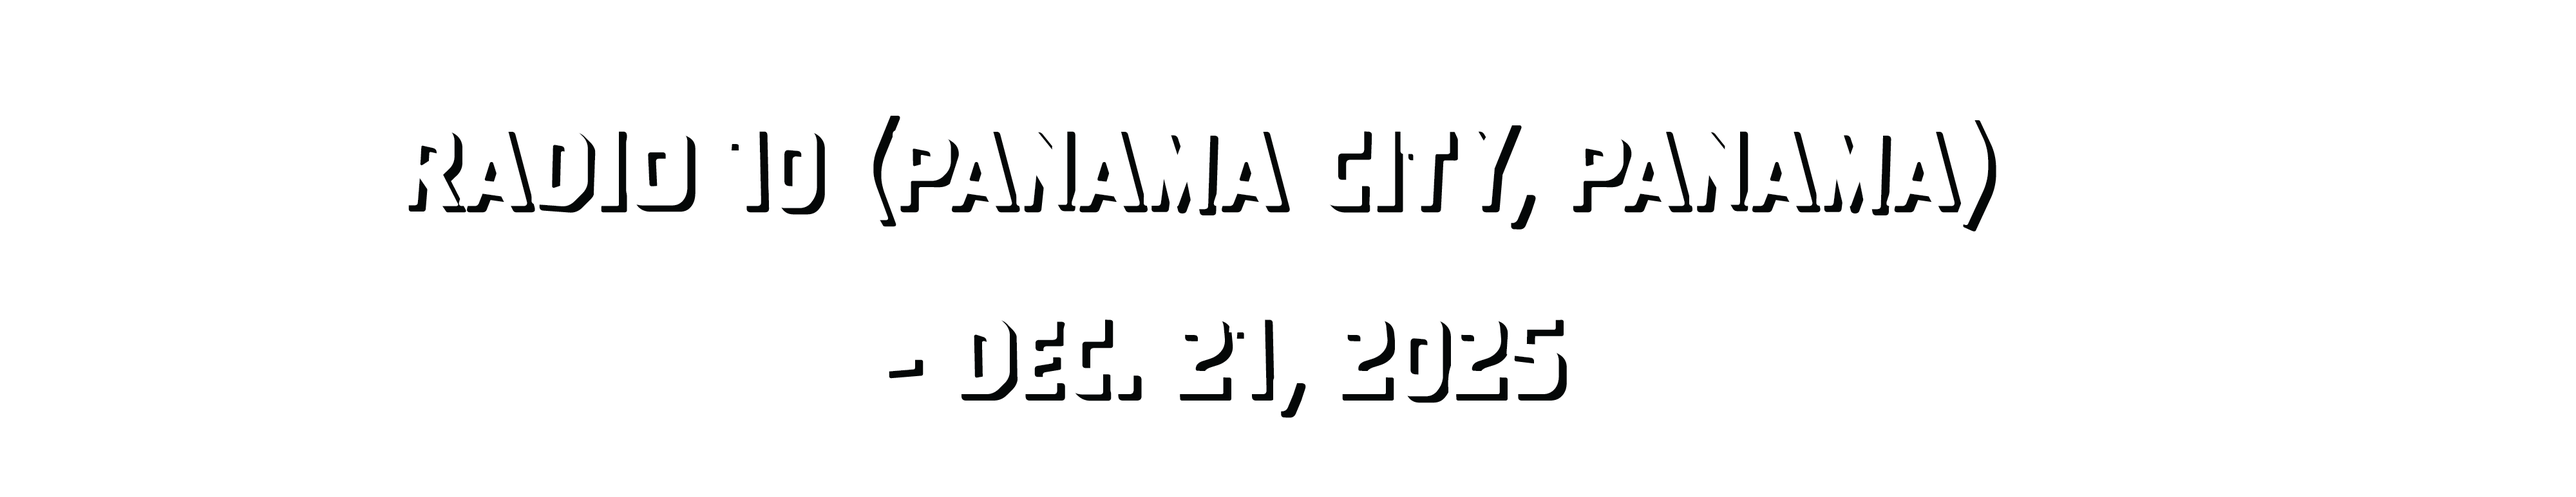
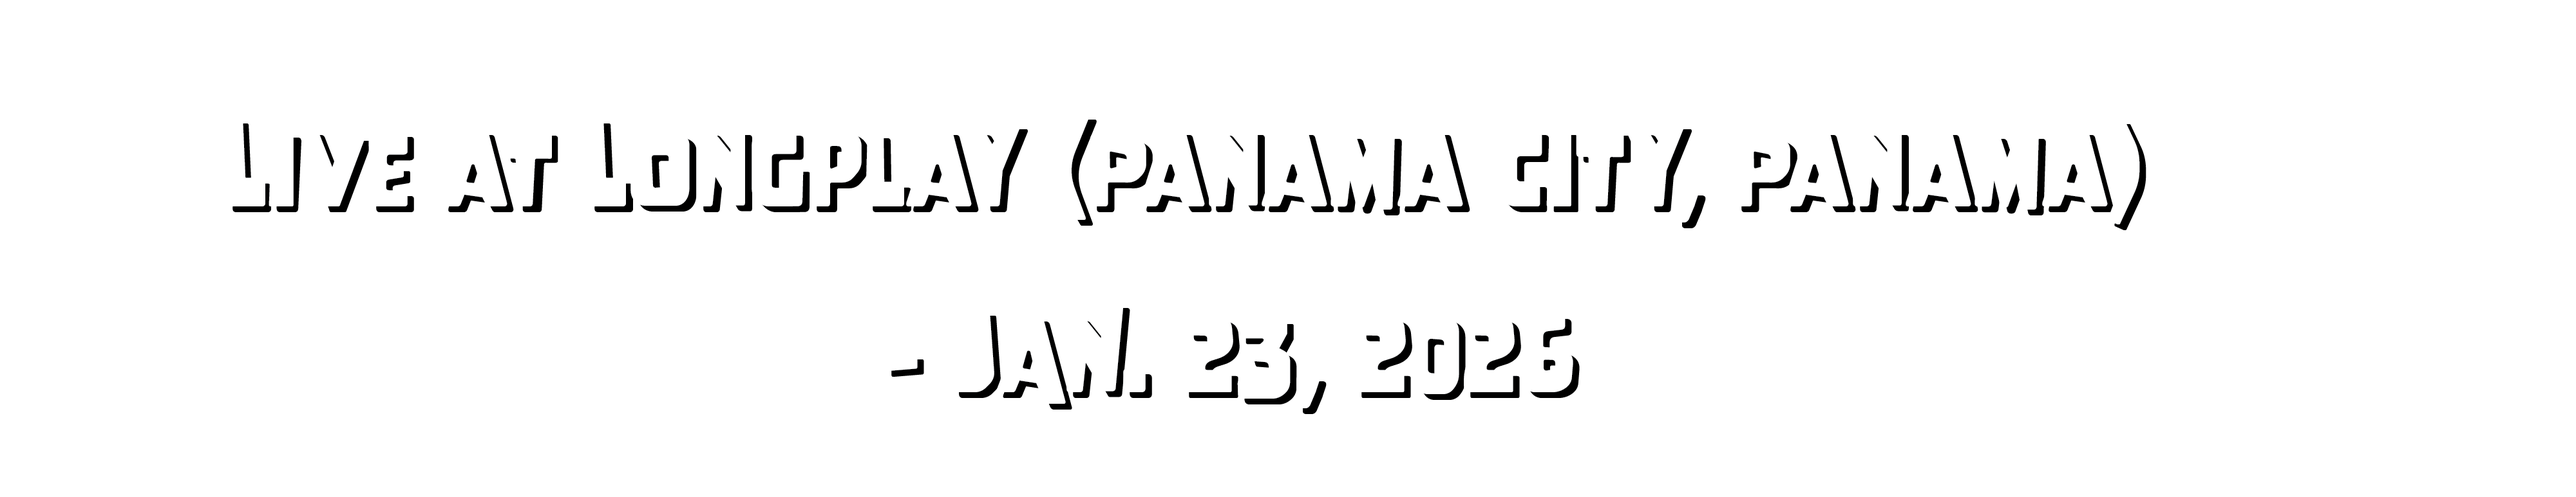
update

Changed region(s): [[0.0938, 0.2484, 0.8438, 0.4657], [0.375, 0.621, 0.625, 0.8383]]

diff --git a/src/components/Tabs.js b/src/components/Tabs.js
@@ -1,45 +1,90 @@
-import { useState } from 'react';
+import { useState, useEffect } from 'react';
 import { useNavigate, useLocation } from 'react-router-dom';
 
 export default function PortfolioTabs() {
-   const navigate = useNavigate();
+  const navigate = useNavigate();
   const location = useLocation();
   const [hoveredTab, setHoveredTab] = useState(null);
+  const [activeTab, setActiveTab] = useState('longplay');
 
   const tabs = [
     { id: 'music', label: 'MUSIC', path: '/music' },
     { id: 'tour', label: 'TOUR DATES', path: '/tour' },
     { id: 'prints', label: 'PRINTS', path: '/prints' },
-    { id: 'merch', label: 'MERCH', path: '/merch' }
+    { id: 'merch', label: 'MERCH', path: '/merch' }, 
   ];
 
- const handleTabClick = (path) => {
+  const tabs2 = [
+    { id: 'longplay', label: 'LIVE AT LONGPLAY', path: '/longplay' }
+  ];
+
+  // Sync active tab with current URL
+  useEffect(() => {
+    const allTabs = [...tabs, ...tabs2];
+    const currentTab = allTabs.find(tab => tab.path === location.pathname);
+    if (currentTab) {
+      setActiveTab(currentTab.id);
+    }
+  }, [location.pathname]);
+
+  const handleTabClick = (tabId, path) => {
+    setActiveTab(tabId);
     navigate(path);
   };
 
-  // Derive active tab from current URL
-  const activeTab = tabs.find(tab => tab.path === location.pathname)?.id || 'music';
   return (
-    <div className="w-full" style={{paddingBottom: "25px"}}>
-      <nav className="flex flex-wrap justify-center gap-6 px-4 py-6">
-        {tabs.map((tab) => {
-          const isActive = activeTab === tab.id;
-          const isHovered = hoveredTab === tab.id;
-          const showBlue = isActive || isHovered;
-          return (
-            <button
-              key={tab.id}
-              onClick={() => handleTabClick(tab.id, tab.path)}
-              onMouseEnter={() => setHoveredTab(tab.id)}
-              onMouseLeave={() => setHoveredTab(null)}
-              style={{ backgroundColor: showBlue ? '#00bdff' : 'white', border: "none", color: "black" }}
-              className={`text-lg font-bold tracking-wide px-4 py-2 transition-all duration-200 uppercase`}
-            >
-              {tab.label}
-            </button>
-          );
-        })}
-      </nav>
+    <div className='column' style={{alignItems:"center"}}>
+      <div className="w-full">
+        <nav className="flex flex-wrap justify-center gap-6 px-4 py-6">
+          {tabs.map((tab) => {
+            const isActive = activeTab === tab.id;
+            const isHovered = hoveredTab === tab.id;
+            const showBlue = isActive || isHovered;
+            return (
+              <button
+                key={tab.id}
+                onClick={() => handleTabClick(tab.id, tab.path)}
+                onMouseEnter={() => setHoveredTab(tab.id)}
+                onMouseLeave={() => setHoveredTab(null)}
+                style={{ 
+                  backgroundColor: showBlue ? 'black' : 'white', 
+                  border: "none", 
+                  color: showBlue ? 'white' : 'black' 
+                }}
+                className={`text-lg font-bold tracking-wide px-4 py-2 transition-all duration-200 uppercase`}
+              >
+                {tab.label}
+              </button>
+            );
+          })}
+        </nav>
+      </div>
+      
+      <div className="w-full" style={{paddingBottom: "15px"}}>
+        <nav className="flex flex-wrap justify-center gap-6 px-4 py-6">
+          {tabs2.map((tab) => {
+            const isActive = activeTab === tab.id;
+            const isHovered = hoveredTab === tab.id;
+            const showBlue = isActive || isHovered;
+            return (
+              <button
+                key={tab.id}
+                onClick={() => handleTabClick(tab.id, tab.path)}
+                onMouseEnter={() => setHoveredTab(tab.id)}
+                onMouseLeave={() => setHoveredTab(null)}
+                style={{ 
+                  backgroundColor: showBlue ? 'black' : 'white', 
+                  border: "none", 
+                  color: showBlue ? 'white' : 'black' 
+                }}
+                className={`text-lg font-bold tracking-wide px-4 py-2 transition-all duration-200 uppercase`}
+              >
+                {tab.label}
+              </button>
+            );
+          })}
+        </nav>
+      </div>
     </div>
   );
 }

diff --git a/src/pages/Longplay.js b/src/pages/Longplay.js
@@ -1,13 +1,11 @@
 
 import { useMediaQuery } from "react-responsive";
 import SaiyanKenny from "../img/Saiyan_Kenny.png"
-import ShowDatesHeader from "../img/Show_Dates.png"
-import Tour1 from "../img/Tour_01.png"
-import Tour2 from "../img/Tour_02.png"
+import LiveAtLongplay from "../img/Live_At_Longplay.png"
 import Footer from "../components/Footer"
 import WunderMascot from "../img/Wunder_Mascots.png"
 
-export default function Tour() {
+export default function Longplay() {
     return(<div
         style={{
             overflowX: "hidden",
@@ -23,7 +21,7 @@ export default function Tour() {
 
 function Desktop(){
     return(
-       <div
+        <div
         className='column'
         style={{
             margin: "0 auto",
@@ -35,24 +33,29 @@ function Desktop(){
             alignItems: "center",
             justifyContent: "flex-start"
         }}
-    ><div style={{height: "50px"}}></div>
+    ><div style={{height: "50px",}}></div>
 <img src={SaiyanKenny} style={{width: "350px"}}/>
 <div style={{color: "white", padding: "5px"}}><strong>Please view from a mobile device.</strong></div></div>
-        
- 
     )
 } 
 
 function Mobile(){
    
-    return(<div style={{width: "100vw"}}><div className='column' style={{height: "100vh", width: "100vw", justifyContent: "space-between",alignItems: "center",  backgroundColor: '#5bbc1bff'}}>
-<div className='column' style={{alignItems: "center", justifyContent: "center"}}><div style={{padding: "20px"}}></div>
-<img src={ShowDatesHeader} style={{width: "350px"}}/>
-<div style={{paddingBottom: "5px"}}></div>
-    <img src={Tour1} style={{width: "450px"}}/>
-    </div>
-     <img src={WunderMascot} style={{width: "425px"}}/>
+    return(<div style={{width: "100vw"}}><div className='column' style={{height: "100vh", width: "100vw", justifyContent: "space-between",alignItems: "center",   backgroundColor: 'white'}}>
+<div><div className="row" style={{width: "356",padding: "25px 10px 10px 10px", justifyContent: "center"}}><img src={LiveAtLongplay} style={{width: "150px"}}/></div>
+    <iframe 
+  width="356" 
+  height="200" 
+  src="https://www.youtube.com/embed/mZ0I4Ca1-uc?autoplay=1&mute=1" 
+  title="YouTube video player" 
+  frameborder="0" 
+  allow="accelerometer; autoplay; clipboard-write; encrypted-media; gyroscope; picture-in-picture" 
+  allowfullscreen>
+</iframe>
+   </div>
+    <img src={WunderMascot} style={{width: "425px"}}/>
        
         </div><Footer/></div>
+        
     )
 }

diff --git a/src/pages/Music.js b/src/pages/Music.js
@@ -43,19 +43,19 @@ function Desktop(){
 function Mobile(){
    
     return(
-<div className='column' style={{alignItems: "center",  backgroundColor: '#ff8022',  }}>
-    <div style={{padding:'20px'}}></div> 
-     <a href="https://ffm.to/super-human" target="_blank" className='row' style={{width: "100vw", justifyContent: "center"}}><img src={Superhuman} style={{width: "95%"}}/></a>
-    <div style={{padding:'15px'}}></div> 
-        <a href="https://ffm.to/super-human" target="_blank"><button className="share-button" style={{width: "115px", height: "40px"}}>Share</button></a> 
-    <div style={{padding:'15px'}}></div>
-    <a href="https://ffm.to/en-tu-alma" target="_blank" className='row' style={{width: "100vw", justifyContent: "center"}}><img src={EnTuAlma} style={{width: "95%"}}/></a>
+<div className='column' style={{alignItems: "center",  backgroundColor: 'white' }}>
+    <div style={{padding:'15px 15px 15px 15px'}}></div> 
+     <a href="https://ffm.to/en-tu-alma" target="_blank" className='row' style={{width: "100vw", justifyContent: "center"}}><img src={EnTuAlma} style={{width: "95%"}}/></a>
     <div style={{padding:'15px'}}></div> 
         <a href="https://ffm.to/en-tu-alma" target="_blank"><button className="share-button" style={{width: "115px", height: "40px"}}>Share</button></a> 
-    <div style={{padding:'15px'}}></div> 
+    <div style={{padding:'15px'}}></div>
     <a href="https://ffm.to/like-a-weirdo" target="_blank" className='row' style={{width: "100vw", justifyContent: "center"}}><img src={LikeAWeirdo} style={{width: "95%"}}/></a>
     <div style={{padding:'15px'}}></div> 
         <a href="https://ffm.to/like-a-weirdo" target="_blank"><button className="share-button" style={{width: "115px", height: "40px"}}>Share</button></a> 
+    <div style={{padding:'15px'}}></div> 
+    <a href="https://ffm.to/super-human" target="_blank" className='row' style={{width: "100vw", justifyContent: "center"}}><img src={Superhuman} style={{width: "95%"}}/></a>
+    <div style={{padding:'15px'}}></div> 
+        <a href="https://ffm.to/super-human" target="_blank"><button className="share-button" style={{width: "115px", height: "40px"}}>Share</button></a> 
          <MailchimpForm/>
         <Footer/>
     </div>

diff --git a/src/components/MailchimpForm.js b/src/components/MailchimpForm.js
@@ -1,7 +1,6 @@
 import MailchimpSubscribe from 'react-mailchimp-subscribe';
 import SaiyanKenny from "../img/Saiyan_Kenny.png"
-import SaiyanKennyBlue from "../img/Saiyan_Kenny_Blue.png"
-// import SaiyanKennyDark from "../img/Saiyan_Kenny_Dark.png"
+import SaiyanKennyWhite from "../img/Saiyan_Kenny_White.png"
 
 const MailchimpForm = () => {
   const url = "https://jerycoandfriends.us7.list-manage.com/subscribe/post?u=2c3a3d45d5393d41290196b6c&amp;id=73e6ea2dff&amp;f_id=00e59be0f0"; // Replace with your URL
@@ -34,8 +33,8 @@ const CustomForm = ({ onValidated }) => {
   };
 
   return (
-    <div className='column' style={{alignItems: "center", width: "100vw",padding: "25px",   backgroundColor: '#ff8022',}}>
-       <div className='row'><img className="hover" src={SaiyanKennyBlue} style={{width: "150px"}} onClick={submit}/><img className="hover" src={SaiyanKenny} style={{width: "150px"}} onClick={submit}/></div>
+    <div className='column' style={{alignItems: "center", width: "100vw",padding: "25px",   backgroundColor: 'white',}}>
+       <div className='row'><img className="hover" src={SaiyanKennyWhite} style={{width: "150px"}} onClick={submit}/><img className="hover" src={SaiyanKenny} style={{width: "150px"}} onClick={submit}/></div>
 
       {/* <button className='submit-button' style={{height: "39px", minWidth: "300px"}} onClick={submit}>Become A Member</button> */}
       <div style={{padding: "15px"}}></div>

diff --git a/src/App.js b/src/App.js
@@ -6,6 +6,7 @@ import Music from './pages/Music';
 import Tour from './pages/Tour';
 import Prints from './pages/Prints';
 import Merch from './pages/Merch';
+import Longplay from "./pages/Longplay"
 import Logo from "./img/Jeryco_and_Friends.png"
 import BouncingKenny from "./components/BouncingKenny"
 import Tabs from './components/Tabs';
@@ -73,6 +74,7 @@ function App() {
         <Route path="/prints" element={<Prints/>} />
         <Route path="/merch" element={<Merch />} />
         <Route path="/" element={<Music />} /> {/* default route */}
+        <Route path="/longplay" element={<Longplay />} />
       </Routes></div></div>
     </BrowserRouter>
   );

diff --git a/src/App.css b/src/App.css
@@ -81,14 +81,14 @@ button {
 }
 
 .share-button {
-  background-color: #2a9a1e;
+  background-color: black;
   color: white;
-  border: 2px solid white;
+  border: 2px solid black;
 }
 
 .share-button:hover {
-  background-color: white;
-  color: #008cff;
+  background-color: black;
+  color: white;
 }
 
 .hover:hover {
